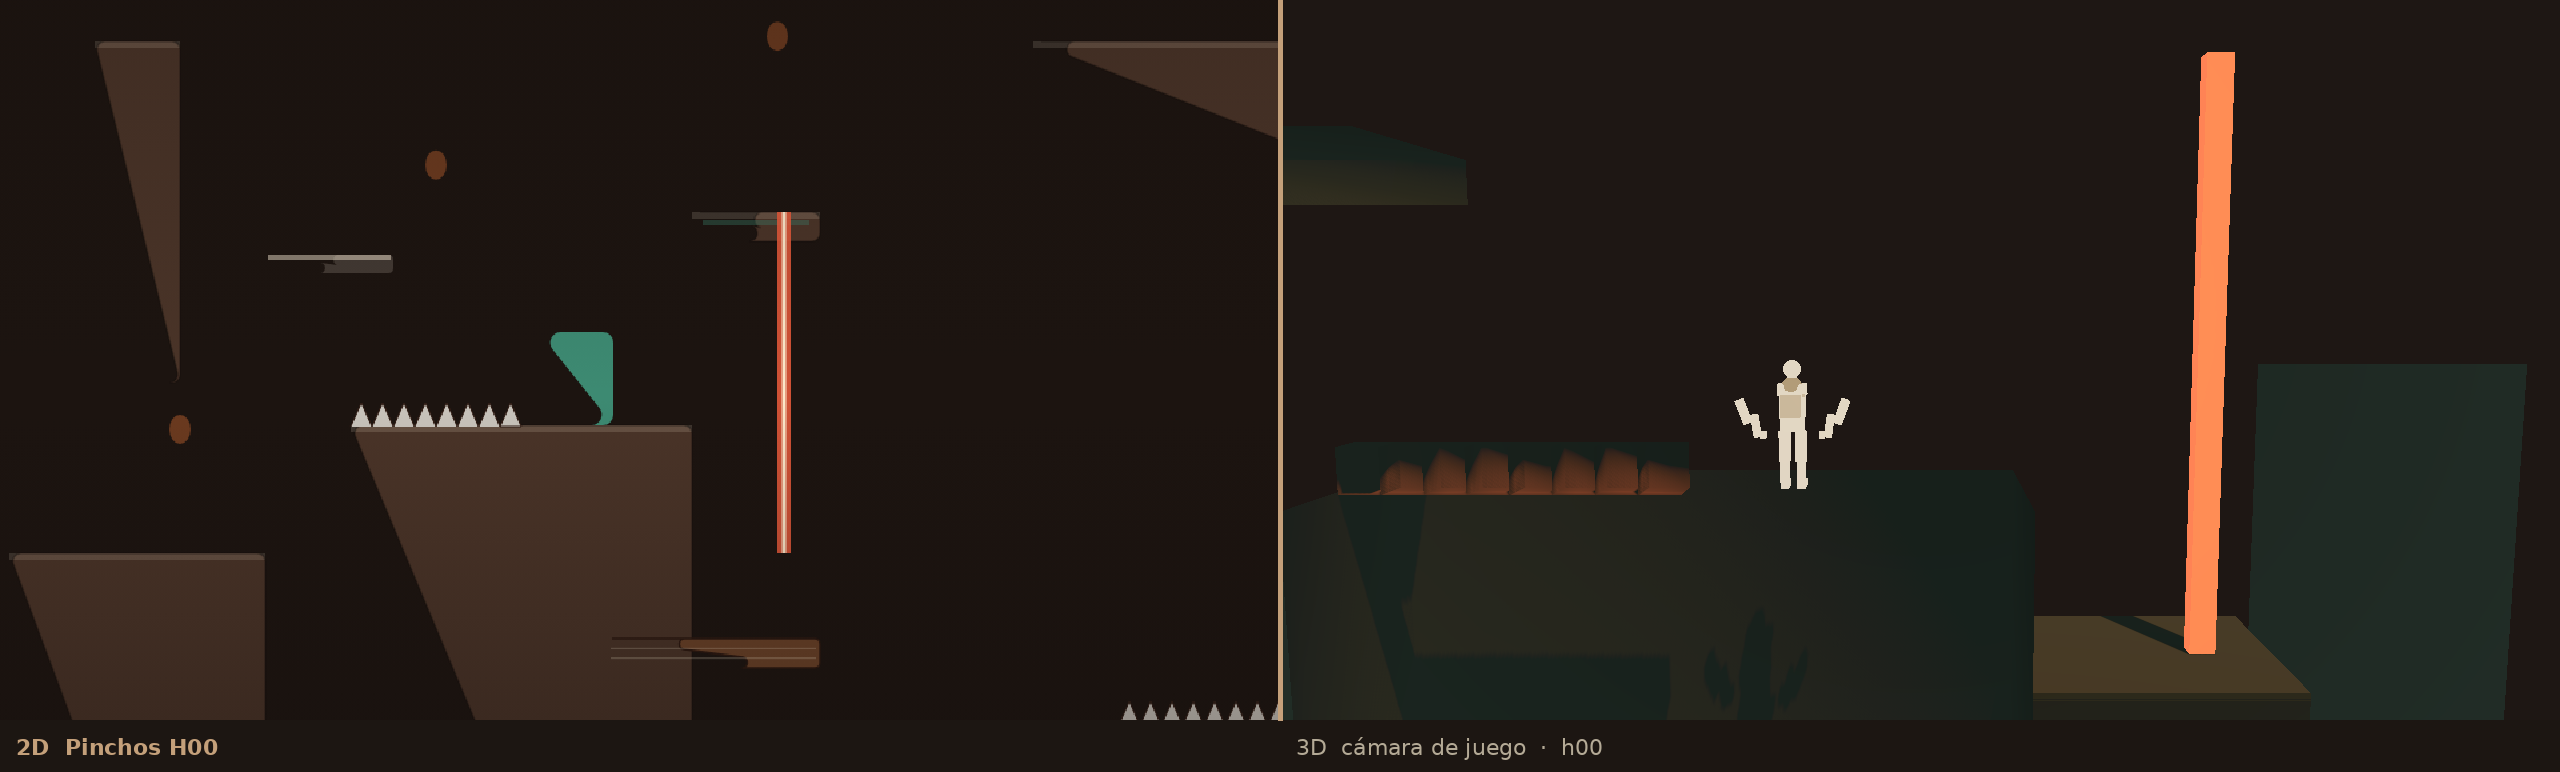
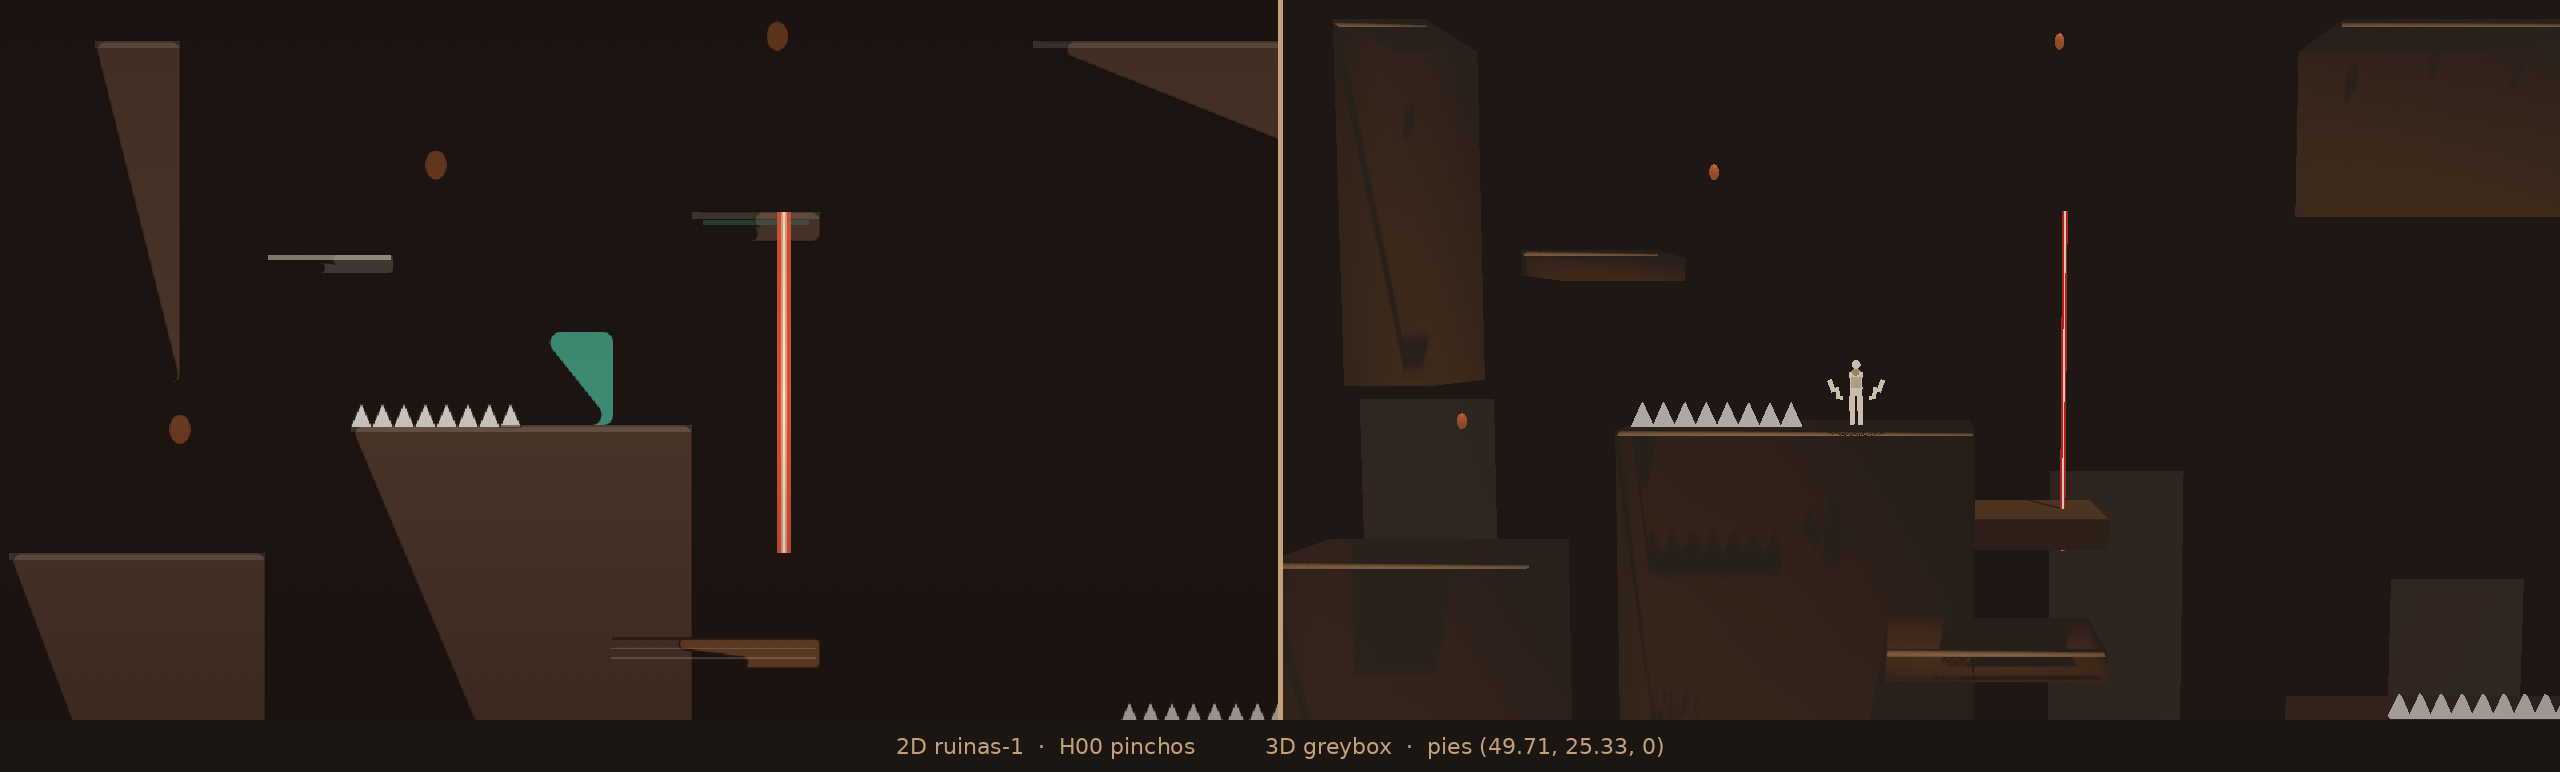
greybox: apply the ruinas camera dolly and unstick warps
camera_offset now sits after script= and is set again in _ready, so the
view is 22.5 m tall and Maya's 1.75 m hitbox lands near 56 px at 720p.
K00/F00 respawn instead of freezing, and falling off the level costs a life.

diff --git a/docs/ruinas/COMPARATIVO_2D_3D.md b/docs/ruinas/COMPARATIVO_2D_3D.md
@@ -6,20 +6,22 @@ Piloto greybox Godot 4.2. Escala **24 px = 1 m**. Y 2D hacia abajo; Y Godot haci
 
 El pin pedido `NadiaCoelloO/sand-vivid-dawn-sail@5fd45031` no se pudo leer desde aquí (404). El layout y los timings salen de `NadiaCoelloO/Cacao.Game@77e55b5278` `levels.ts` / `sim.ts` (`ruinas-1`, `linkSecrets`, `sitSpikes`, `freeCoins`). QA confirmó que ese pin coincide con lo usado: geometría con 0 faltantes. Los oneways de `selva-1` de ese archivo coinciden con `docs/ONEWAY_DELTA_selva.md`.
 
-`jardin-1` y `pichincha-1` no existen en este proyecto. El warp deja un log y no cambia de escena.
+`jardin-1` y `pichincha-1` no existen en este proyecto. El warp deja un log y devuelve a Maya al último spawn. No congela la escena.
 
 ## Cámara
 
-Solo en `pilot_ruinas.tscn`, sobre el `PlayerMaya` de esta escena. `player_maya.gd` no se tocó. El script sigue usando el `@export camera_offset` y el `fov` del nodo.
+El `@export camera_offset` de Godot se descarta si está escrito **antes** de `script =`. En esa posición el runtime se quedaba en el default `(0, 1, 12)` (~20 × 11 m) mientras el clampeo ya estaba armado para 22.5 m. En `pilot_ruinas.tscn` el valor quedó debajo de `script =`, y `_ready` de la escena lo vuelve a asignar. `player_maya.gd` no se tocó. El `fov` sigue en 50.
 
 | | valor |
 |---|---|
-| fov | 50° vertical (sin cambio) |
-| camera_offset | (0, 1, **24.1256**) m |
-| antes | (0, 1, 12) m → ~20 × 11 m |
-| ahora | 2 × 24.1256 × tan(25°) = **22.5 m** de alto; ancho 22.5 × 1280/720 = **40 m** |
+| fov | 50° vertical |
+| camera_offset | (0, 1, **24.1256**) m, leído en runtime |
+| alto de fórmula | 2 × 24.1256 × tan(25°) = **22.50 m** |
+| alto en el plano z = 0 | **22.55 m** (el offset sube 1 m, el rayo no es perpendicular al plano de juego) |
+| ancho en z = 0 | **40.03 m** |
+| Maya, hitbox 1.75 m (42 px) | patio, h00 y h04 **55.7 px**; jardín **54.1 px** (queda abajo del cuadro); mantle **56.7 px**. Viewport 1280×720 |
 
-Eso iguala la ventana 2D de 960×540 px. Además, después del follow, la escena clampea el foco a la misma ventana que `followCam`: x en [20, 180] m y y en [11.25, 36.75] m (el borde del nivel). El look-ahead de 2 m sigue siendo el del script.
+Eso iguala la ventana 2D de 960×540 px (1 m = 32 px, 42 px × 720/540 = 56 px). Después del follow, la escena clampea el foco a x en [20, 180] m y y en [11.25, 36.75] m: la misma ventana de 40 × 22.5 m pegada al borde del nivel. El look-ahead de 2 m sigue siendo el del script.
 
 ## Tomas
 
@@ -49,13 +51,13 @@ Misma pose en los dos renders. 2D: `renderGame`, 960×540, `camLook = 48`, `time
 
 | toma | tris | draws | tris mundo | draws mundo |
 |---|---:|---:|---:|---:|
-| patio | 1949 | 136 | 594 | 91 |
-| jardin | 606 | 129 | 606 | 102 |
-| mantle | 1567 | 72 | 212 | 27 |
-| h00 | 2069 | 111 | 714 | 66 |
-| h04 | 2081 | 116 | 726 | 71 |
+| patio | 2295 | 141 | 940 | 105 |
+| jardin | 2381 | 154 | 1026 | 118 |
+| mantle | 2093 | 108 | 738 | 72 |
+| h00 | 2443 | 118 | 1088 | 82 |
+| h04 | 2363 | 119 | 1008 | 83 |
 
-Los granos van por instancia para poder ocultarlos al recogerlos. Por eso el draw count sube respecto del merge anterior. El mundo de mantle, sin Maya y con poco en cuadro, queda en 27 draws.
+Los granos van por instancia para poder ocultarlos al recogerlos. El bisel, las lianas y el núcleo del láser suman draws. Sigue muy por debajo del techo de 180k tris. El draw count queda por encima de 80 porque cada grano y cada adorno es su propio mesh.
 
 ## Jugabilidad cableada
 
@@ -66,10 +68,11 @@ Valores copiados de `sim.ts`. Nada de esto toca `player_maya.gd`.
 | pinchos H00–H03 | overlap del hurtbox `(x+4, y+8, w-8, h-10)` → `kill` |
 | láseres H04–H06 | igual, solo si `(time+phase) % period < period*0.42` |
 | kill | vidas 5, `invuln` 0.8, `hitstop` 0.08, `deathT` 0.55, respawn con `invuln` 1.1. A 0 vidas, `over` |
+| caída del nivel | pies bajo `-(80+42)/24` m (−5.08 m). Resta una vida, igual que `p.y > level.height + 80`. El `kill_y` de Maya en esta escena está en −1000 para que ese respawn instantáneo (sin vida) no dispare |
 | monedas | distancia al centro < 28 px. Se ocultan |
 | K01 | salto lo activa, guarda el spawn (`x+4`, pies en la base del poste), `poleLock` 0.35 s, texto «Partida guardada» |
-| K00 | primer salto guarda y avisa «Tótem guardado — W otra vez». El siguiente warp loguea `pichincha-1` y no cambia de escena |
-| F00 | overlap loguea `jardin-1` y frena. No hay escena destino |
+| K00 | primer salto guarda y avisa «Tótem guardado — W otra vez». El siguiente loguea `pichincha-1` y reaparece en el último spawn. No congela |
+| F00 | overlap loguea `jardin-1`, marca la caída como usada y reaparece en el último spawn. No resta vida y no congela |
 | G00 | overlap marca la meta, oculta el grano y deja `win` 1.35 s |
 | one-way | la colisión se apaga si los pies están bajo `top−0.06`, y también mientras `_drop_timer > 0` (abajo+salto, 0.18 s). El timer lo arma Maya; la escena lo lee al inicio del tick siguiente, todavía dentro de esa ventana |
 | crumble / móviles | sin cambio: 0.46 s / 2.7 s, y `sin`/`cos` del 2D |
@@ -174,7 +177,7 @@ En el 2D los one-way no entran en `solids()`, así que el mantle no los agarra. 
 
 ## Look
 
-Fondo `#1E1714` con siluetas oscuras detrás del plano. Piedra `#4A382C`, labio `#6B5440`. Sol cenital cálido, energía 0.42, sombras. Niebla de profundidad `#24302A` densidad 0.035, y niebla baja en el pozo. El jardín no tiene cubo translúcido: haz verde desde abajo, lianas en quads con alpha-scissor, musgo en la base de los muros. Fill y rim de Maya, `cull_mask` solo de su capa, colores de LOOK-001.
+Fondo `#1E1714`. Niebla de profundidad `#2C241E` (marrón, no tiñe de verde los muros cercanos). Piedra `#4A382C`, labio `#6B5440`, bisel claro en la arista superior delantera. Sol cenital cálido, energía 0.42, sombras. El verde queda en el pozo: haz corto desde el suelo, lámina emisiva, lianas claras con alpha-scissor (hueco alrededor de x ≈ 17.3) y musgo en la base. La cara cercana de la piedra (la que tapa a Maya) se descarta con dither solo donde cae sobre ella; la colisión no se mueve. Pinchos: triángulos `#C9C4BC`, sin emisión. Láser: franja roja `#C41418` de 0.16 m con núcleo `#FFF0D2`. Cacao `#8B4A2B` con emisión cálida `#C46A3A`. Fill y rim de Maya, `cull_mask` solo de su capa, colores de LOOK-001.
 
 ## Pendiente
 
@@ -182,7 +185,8 @@ Fondo `#1E1714` con siluetas oscuras detrás del plano. Piedra `#4A382C`, labio 
 |---|---|
 | geometría del 2D | completa |
 | pinchos, láser, monedas, K01, G00, drop-through | cableados |
-| warp K00 / F00 | stub con log. No hay `pichincha-1` ni `jardin-1` |
+| warp K00 / F00 | stub con log y respawn al último spawn. No hay `pichincha-1` ni `jardin-1`. No congela |
+| caída fuera del nivel | resta una vida |
 | caja P09 pound | no. Maya no tiene pound |
 | escalada Nix en P01/P02 | no. Diferencia de personaje |
 | wall-jump | no. Haría falta el OK de Nadia para tocar `player_maya.gd` |
